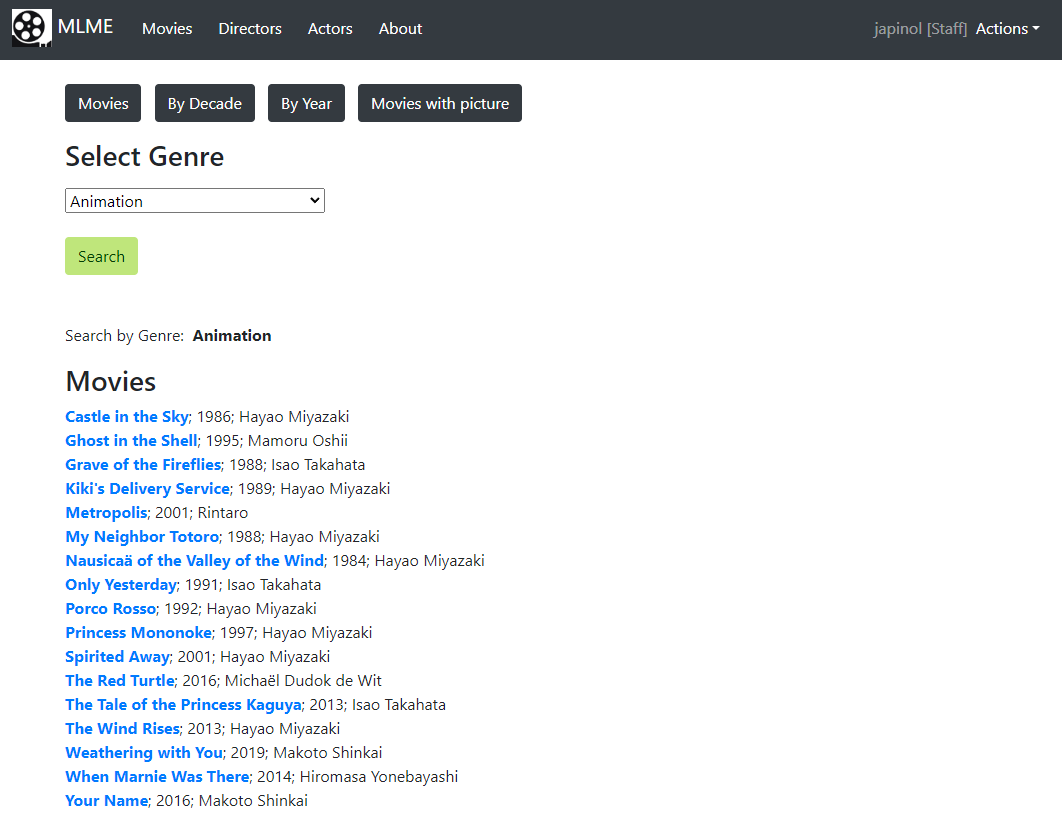
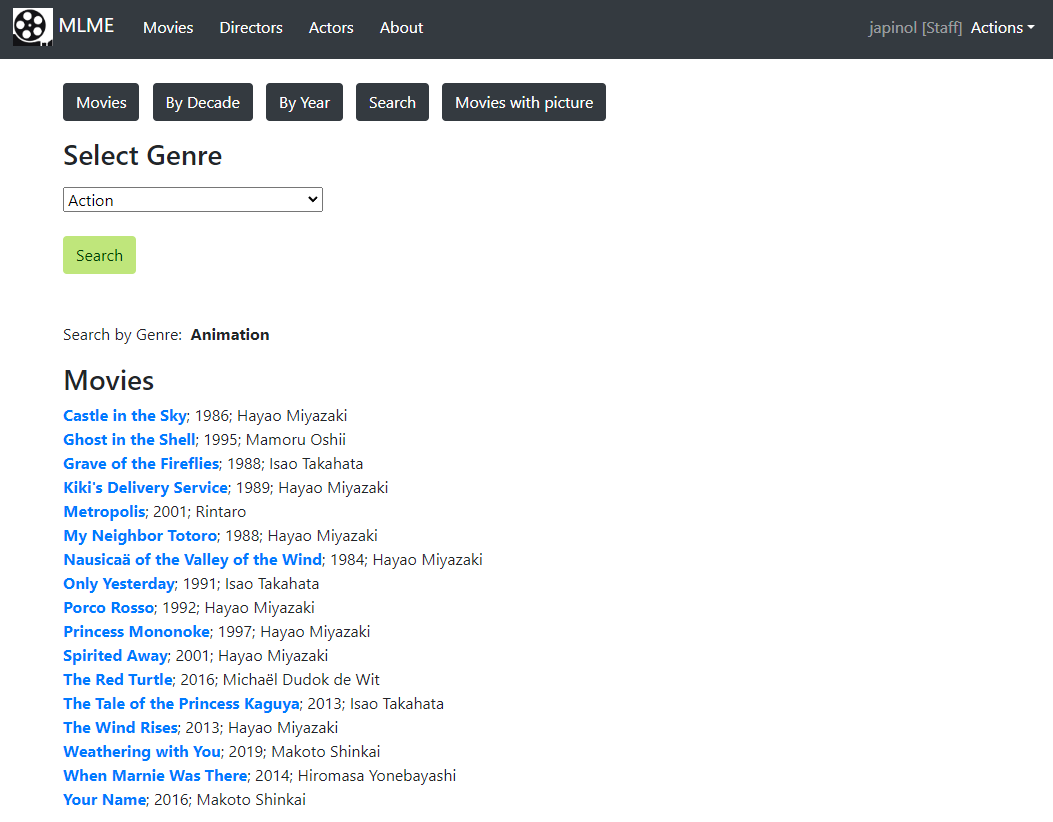
[IMP] Add free search movie page to search by movie title and/or director.

diff --git a/templates/catalog/movie_list_search.html b/templates/catalog/movie_list_search.html
@@ -1,0 +1,33 @@
+{% extends "home/base.html" %}
+
+{% block title %}MLME - Movie Search {% endblock title %}
+
+{% block content %}
+    <p>
+        <a class="btn btn-dark" href="{% url 'catalog:movie_list' %}">Movies</a> &nbsp;
+        <a class="btn btn-dark" href="{% url 'catalog:movie_list_by_decade' %}">By Decade</a> &nbsp;
+        <a class="btn btn-dark" href="{% url 'catalog:movie_list_by_genre' %}">By Genre</a> &nbsp;
+        <a class="btn btn-dark" href="{% url 'catalog:movie_list_search' %}">Search</a> &nbsp;
+        <a class="btn btn-dark" href="{% url 'catalog:movie_with_picture_list' %}">Movies with picture</a>
+    </p>
+
+    <div class="search-inputs">
+      <h3>Search Movie</h3>
+      <h5>by Title and/or Director</h5>
+      <br>
+      <input name="search_text"
+          placeholder="Search for a movie ..."
+          class="form-control"
+          type="text"
+          value="{{ search_text }}"
+          hx-get="{% url 'catalog:movie_list_search' %}"
+          hx-trigger="keyup[target.value.length > 1] changed delay:500ms"
+          hx-target="#search-results"
+          hx-push-url="true">
+    </div>
+
+    <div class="movies search-results" id="search-results">
+      {% include "catalog/partials/movie_list_search_results.html" %}
+    </div>
+
+{% endblock content %}

diff --git a/templates/home/about.html b/templates/home/about.html
@@ -25,8 +25,8 @@
     <div style="float:left">
         <p class="body about-information"><br>
         <hr style="border-width:2px;border-color:dodgerblue">
-            Starting with version 0.1.0, MLME includes a TMDB integration with <br>
-            the TMDB REST API that the user cant use to get movie data from TMDB. <br>
+            Starting with version 0.1.1, MLME includes a TMDB integration with <br>
+            the TMDB REST API that the user can use to get movie data from TMDB. <br>
             Regarding the TMDB integration: <br>
             <ul>
               <li> This product uses the TMDB API but is not endorsed or certified by TMDB </li>
@@ -50,7 +50,7 @@
   <div style="clear:both">
     <p class="body about-information"><br>
         Program: movies_lib_explorer<br>
-        Version: 0.1.0<br>
+        Version: 0.1.1<br>
         Author: Joan A. Pinol<br>
         Author_nickname: japinol<br>
         Author_gitHub: japinol7<br>

diff --git a/templates/catalog/partials/movie_list_search_results.html b/templates/catalog/partials/movie_list_search_results.html
@@ -1,0 +1,20 @@
+{% load humanize %}
+
+{% if movies %}
+  <div class="search-result-count">{{ movies | length | intcomma }} results</div>
+{% endif %}
+
+<div class="container">
+  {% for movie in movies %}
+    <div class="row search-result-row">
+      <div class="movie search-result col-md-10">
+            <b><a href="{% url 'catalog:movie' movie_id=movie.id %}">{{ movie.title }}</a></b>;
+            {{ movie.year }};
+            {% if movie.director.first_name %}{{ movie.director.first_name }}{% endif %}
+            {% if movie.director.last_name %} {{ movie.director.last_name }}{% endif %}
+            <br>
+      </div>
+    </div>
+  {% endfor %}
+  <br>
+</div>

diff --git a/templates/catalog/movie_list.html b/templates/catalog/movie_list.html
@@ -7,6 +7,7 @@
         <a class="btn btn-dark" href="{% url 'catalog:movie_list_by_year' %}">By Year</a> &nbsp;
         <a class="btn btn-dark" href="{% url 'catalog:movie_list_by_decade' %}">By Decade</a> &nbsp;
         <a class="btn btn-dark" href="{% url 'catalog:movie_list_by_genre' %}">By Genre</a> &nbsp;
+        <a class="btn btn-dark" href="{% url 'catalog:movie_list_search' %}">Search</a> &nbsp;
         <a class="btn btn-dark" href="{% url 'catalog:movie_with_picture_list' %}">Movies with Picture</a>
     </p>
     <h3>Movies</h3>

diff --git a/templates/catalog/movie_list_by_genre.html b/templates/catalog/movie_list_by_genre.html
@@ -7,6 +7,7 @@
         <a class="btn btn-dark" href="{% url 'catalog:movie_list' %}">Movies</a> &nbsp;
         <a class="btn btn-dark" href="{% url 'catalog:movie_list_by_decade' %}">By Decade</a> &nbsp;
         <a class="btn btn-dark" href="{% url 'catalog:movie_list_by_year' %}">By Year</a> &nbsp;
+        <a class="btn btn-dark" href="{% url 'catalog:movie_list_search' %}">Search</a> &nbsp;
         <a class="btn btn-dark" href="{% url 'catalog:movie_with_picture_list' %}">Movies with picture</a>
     </p>
         <h3>Select Genre</h3>

diff --git a/templates/catalog/movie_list_by_year.html b/templates/catalog/movie_list_by_year.html
@@ -7,6 +7,7 @@
         <a class="btn btn-dark" href="{% url 'catalog:movie_list' %}">Movies</a> &nbsp;
         <a class="btn btn-dark" href="{% url 'catalog:movie_list_by_decade' %}">By Decade</a> &nbsp;
         <a class="btn btn-dark" href="{% url 'catalog:movie_list_by_genre' %}">By Genre</a> &nbsp;
+        <a class="btn btn-dark" href="{% url 'catalog:movie_list_search' %}">Search</a> &nbsp;
         <a class="btn btn-dark" href="{% url 'catalog:movie_with_picture_list' %}">Movies with picture</a>
     </p>
     <h3>Movies by Year</h3>

diff --git a/templates/catalog/movie_list_by_decade.html b/templates/catalog/movie_list_by_decade.html
@@ -7,6 +7,7 @@
         <a class="btn btn-dark" href="{% url 'catalog:movie_list' %}">Movies</a> &nbsp;
         <a class="btn btn-dark" href="{% url 'catalog:movie_list_by_year' %}">By Year</a> &nbsp;
         <a class="btn btn-dark" href="{% url 'catalog:movie_list_by_genre' %}">By Genre</a> &nbsp;
+        <a class="btn btn-dark" href="{% url 'catalog:movie_list_search' %}">Search</a> &nbsp;
         <a class="btn btn-dark" href="{% url 'catalog:movie_with_picture_list' %}">Movies with picture</a>
     </p>
     <h3>Movies by Decade</h3>

diff --git a/templates/catalog/movie_with_picture_list.html b/templates/catalog/movie_with_picture_list.html
@@ -8,6 +8,7 @@
         <a class="btn btn-dark" href="{% url 'catalog:movie_list_by_year' %}">By Year</a> &nbsp;
         <a class="btn btn-dark" href="{% url 'catalog:movie_list_by_decade' %}">By Decade</a> &nbsp;
         <a class="btn btn-dark" href="{% url 'catalog:movie_list_by_genre' %}">By Genre</a>
+        <a class="btn btn-dark" href="{% url 'catalog:movie_list_search' %}">Search</a> &nbsp;
     </p>
     <h3>Movies with picture</h3>
     <br>

diff --git a/catalog/views/movie_views.py b/catalog/views/movie_views.py
@@ -1,10 +1,12 @@
 from collections import defaultdict
 from itertools import groupby
 from pathlib import Path
+import urllib
 
 from django.conf import settings
 from django.contrib.auth.decorators import login_required
 from django.core.exceptions import PermissionDenied
+from django.db.models import Q
 from django.shortcuts import redirect, render, get_object_or_404
 
 from catalog.config.config import MOVIE_GENRES
@@ -98,6 +100,36 @@ def movie_list_by_genre(request):
                       'genres': MOVIE_GENRES,
                       'search_genre': search_genre,
                   })
+
+
+def movie_list_search(request):
+    search_text = request.GET.get('search_text', '')
+    search_text = urllib.parse.unquote(search_text)
+    search_text = search_text.strip()
+
+    movies = []
+    if search_text:
+        parts = search_text.split()
+        q = (Q(title__icontains=parts[0]) | Q(director__last_name__icontains=parts[0])
+             | Q(director__first_name__icontains=parts[0]))
+        for part in parts[1:]:
+            q |= (Q(title__icontains=part) | Q(director__last_name__icontains=part)
+                  | Q(director__first_name__icontains=parts[0]))
+        movies = Movie.objects.filter(q)
+
+    data = {
+        "search_text": search_text,
+        "movies": movies,
+        }
+    if request.htmx:
+        return render(request, "catalog/partials/movie_list_search_results.html",
+                      context=data)
+    return render(request, "catalog/movie_list_search.html",
+                  context=data)
+
+
+def about(request):
+    return render(request, "partials/about.html")
 
 
 def movie(request, movie_id):

diff --git a/catalog/urls.py b/catalog/urls.py
@@ -18,6 +18,7 @@ urlpatterns = [
     path('movie_list_by_year/', movie_views.movie_list_by_year, name='movie_list_by_year'),
     path('movie_list_by_decade/', movie_views.movie_list_by_decade, name='movie_list_by_decade'),
     path('movie_list_by_genre/', movie_views.movie_list_by_genre, name='movie_list_by_genre'),
+    path('movie_list_search/', movie_views.movie_list_search, name='movie_list_search'),
     path('movie_with_picture_list/', movie_views.movie_with_picture_list, name='movie_with_picture_list'),
     path('movie/<int:movie_id>/', movie_views.movie, name='movie'),
     path('upload_movie_photo/<int:movie_id>/', movie_views.upload_movie_photo,

diff --git a/movies_lib_explorer/settings.py b/movies_lib_explorer/settings.py
@@ -43,6 +43,7 @@ INSTALLED_APPS = [
     'django.contrib.sessions',
     'django.contrib.messages',
     'django.contrib.staticfiles',
+    "django.contrib.humanize",
     'home',
     'catalog',
     'users',

diff --git a/README.md b/README.md
@@ -6,8 +6,8 @@ It includes a REST API for the catalog models using Django REST Framework. <br>
 About the demo data: All the MLME demo metadata has been entered <br>
 manually over the years as a hobby by the author of MLME. 
 
-Starting with version 0.1.0, MLME includes a TMDB integration with <br> 
-the TMDB REST API that the user cant use to get movie data from TMDB.
+Starting with version 0.1.1, MLME includes a TMDB integration with <br> 
+the TMDB REST API that the user can use to get movie data from TMDB.
 * Regarding the TMDB integration:
   * This product uses the TMDB API but is not endorsed or certified by TMDB <br>
     <img src="static/tmdb/logo.svg" height=50>
@@ -20,7 +20,7 @@ the TMDB REST API that the user cant use to get movie data from TMDB.
 
 	program: MLME. Movies Library Metadata Explorer using Django.
     name as a package: movies_lib_explorer 
-	version: 0.1.0
+	version: 0.1.1
 	author: Joan A. Pinol
 	author_nickname: japinol
 	author_gitHub: japinol7
